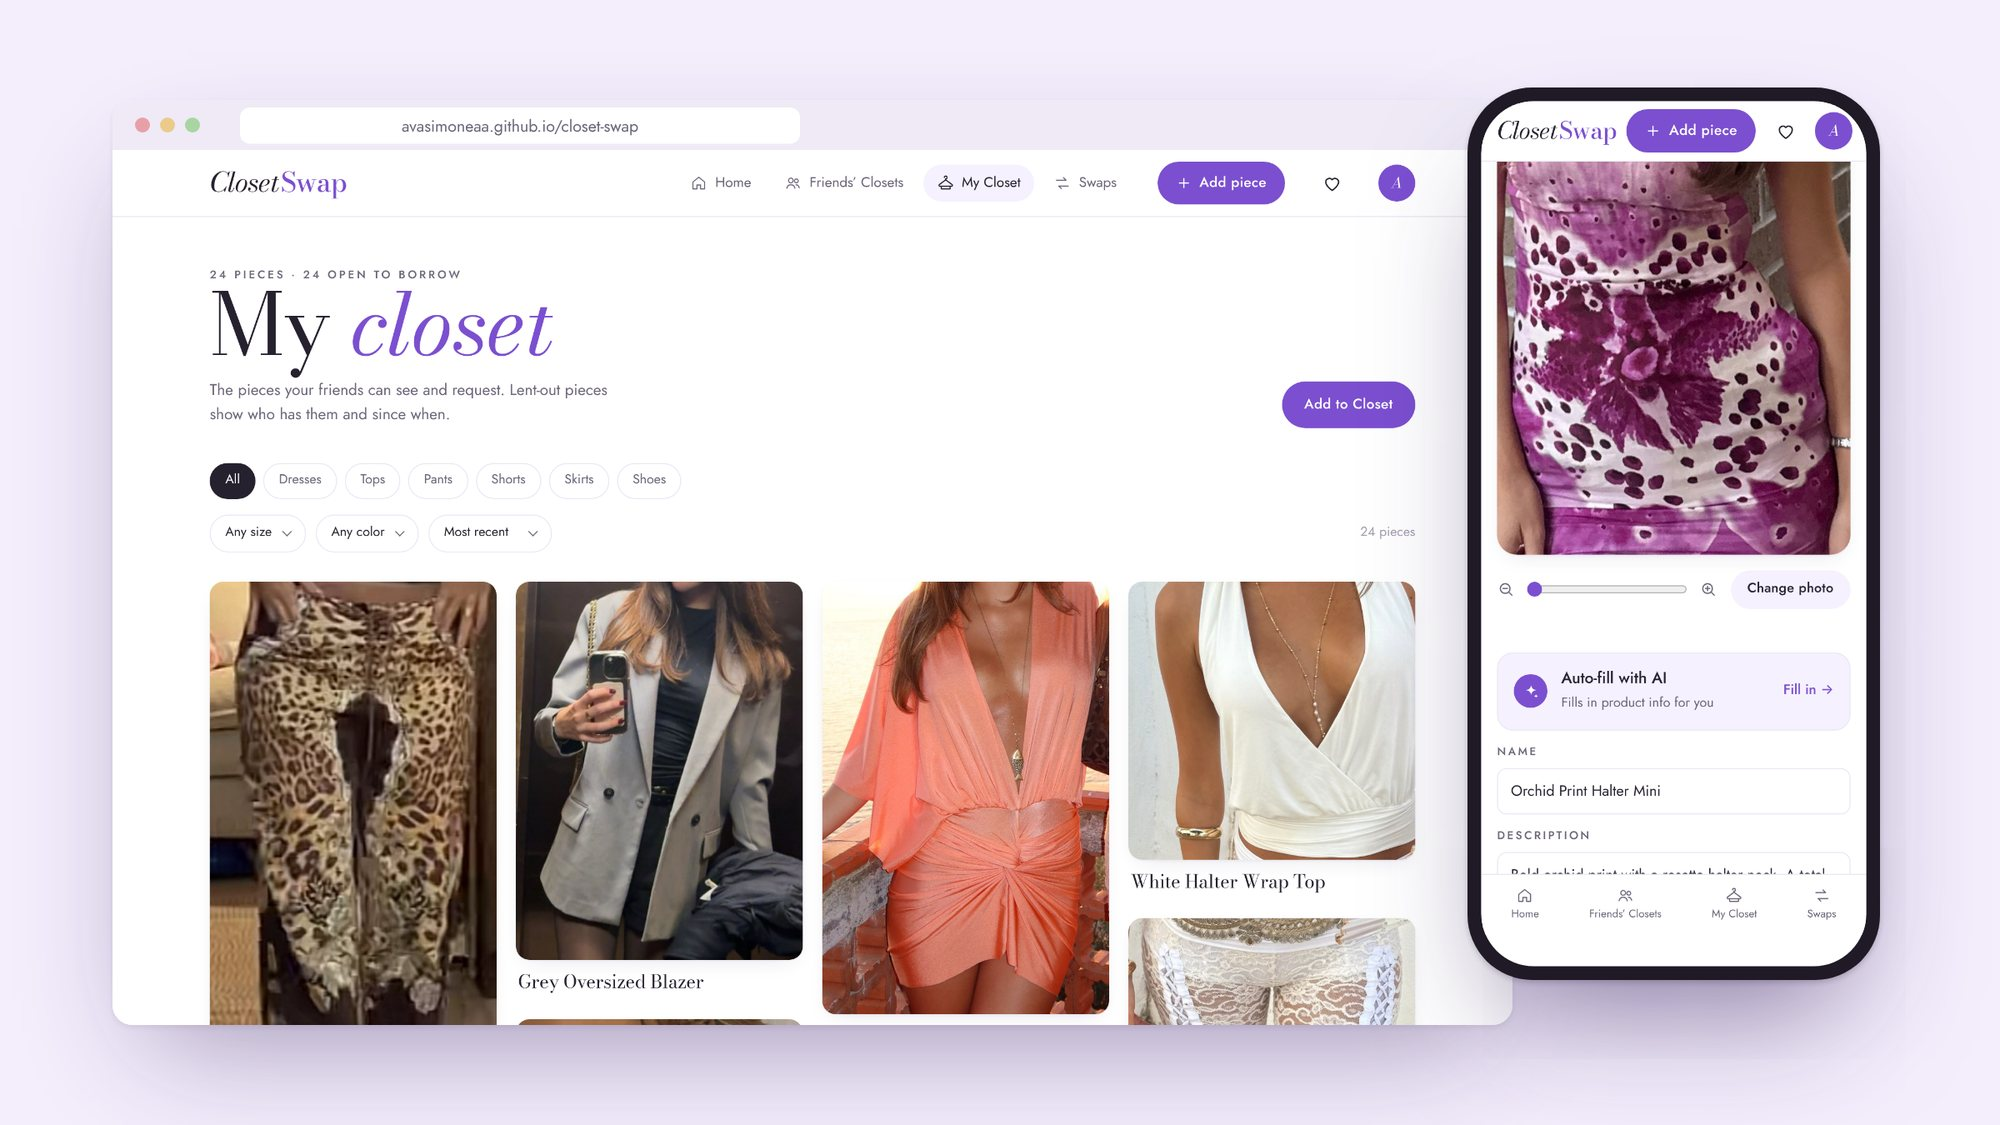
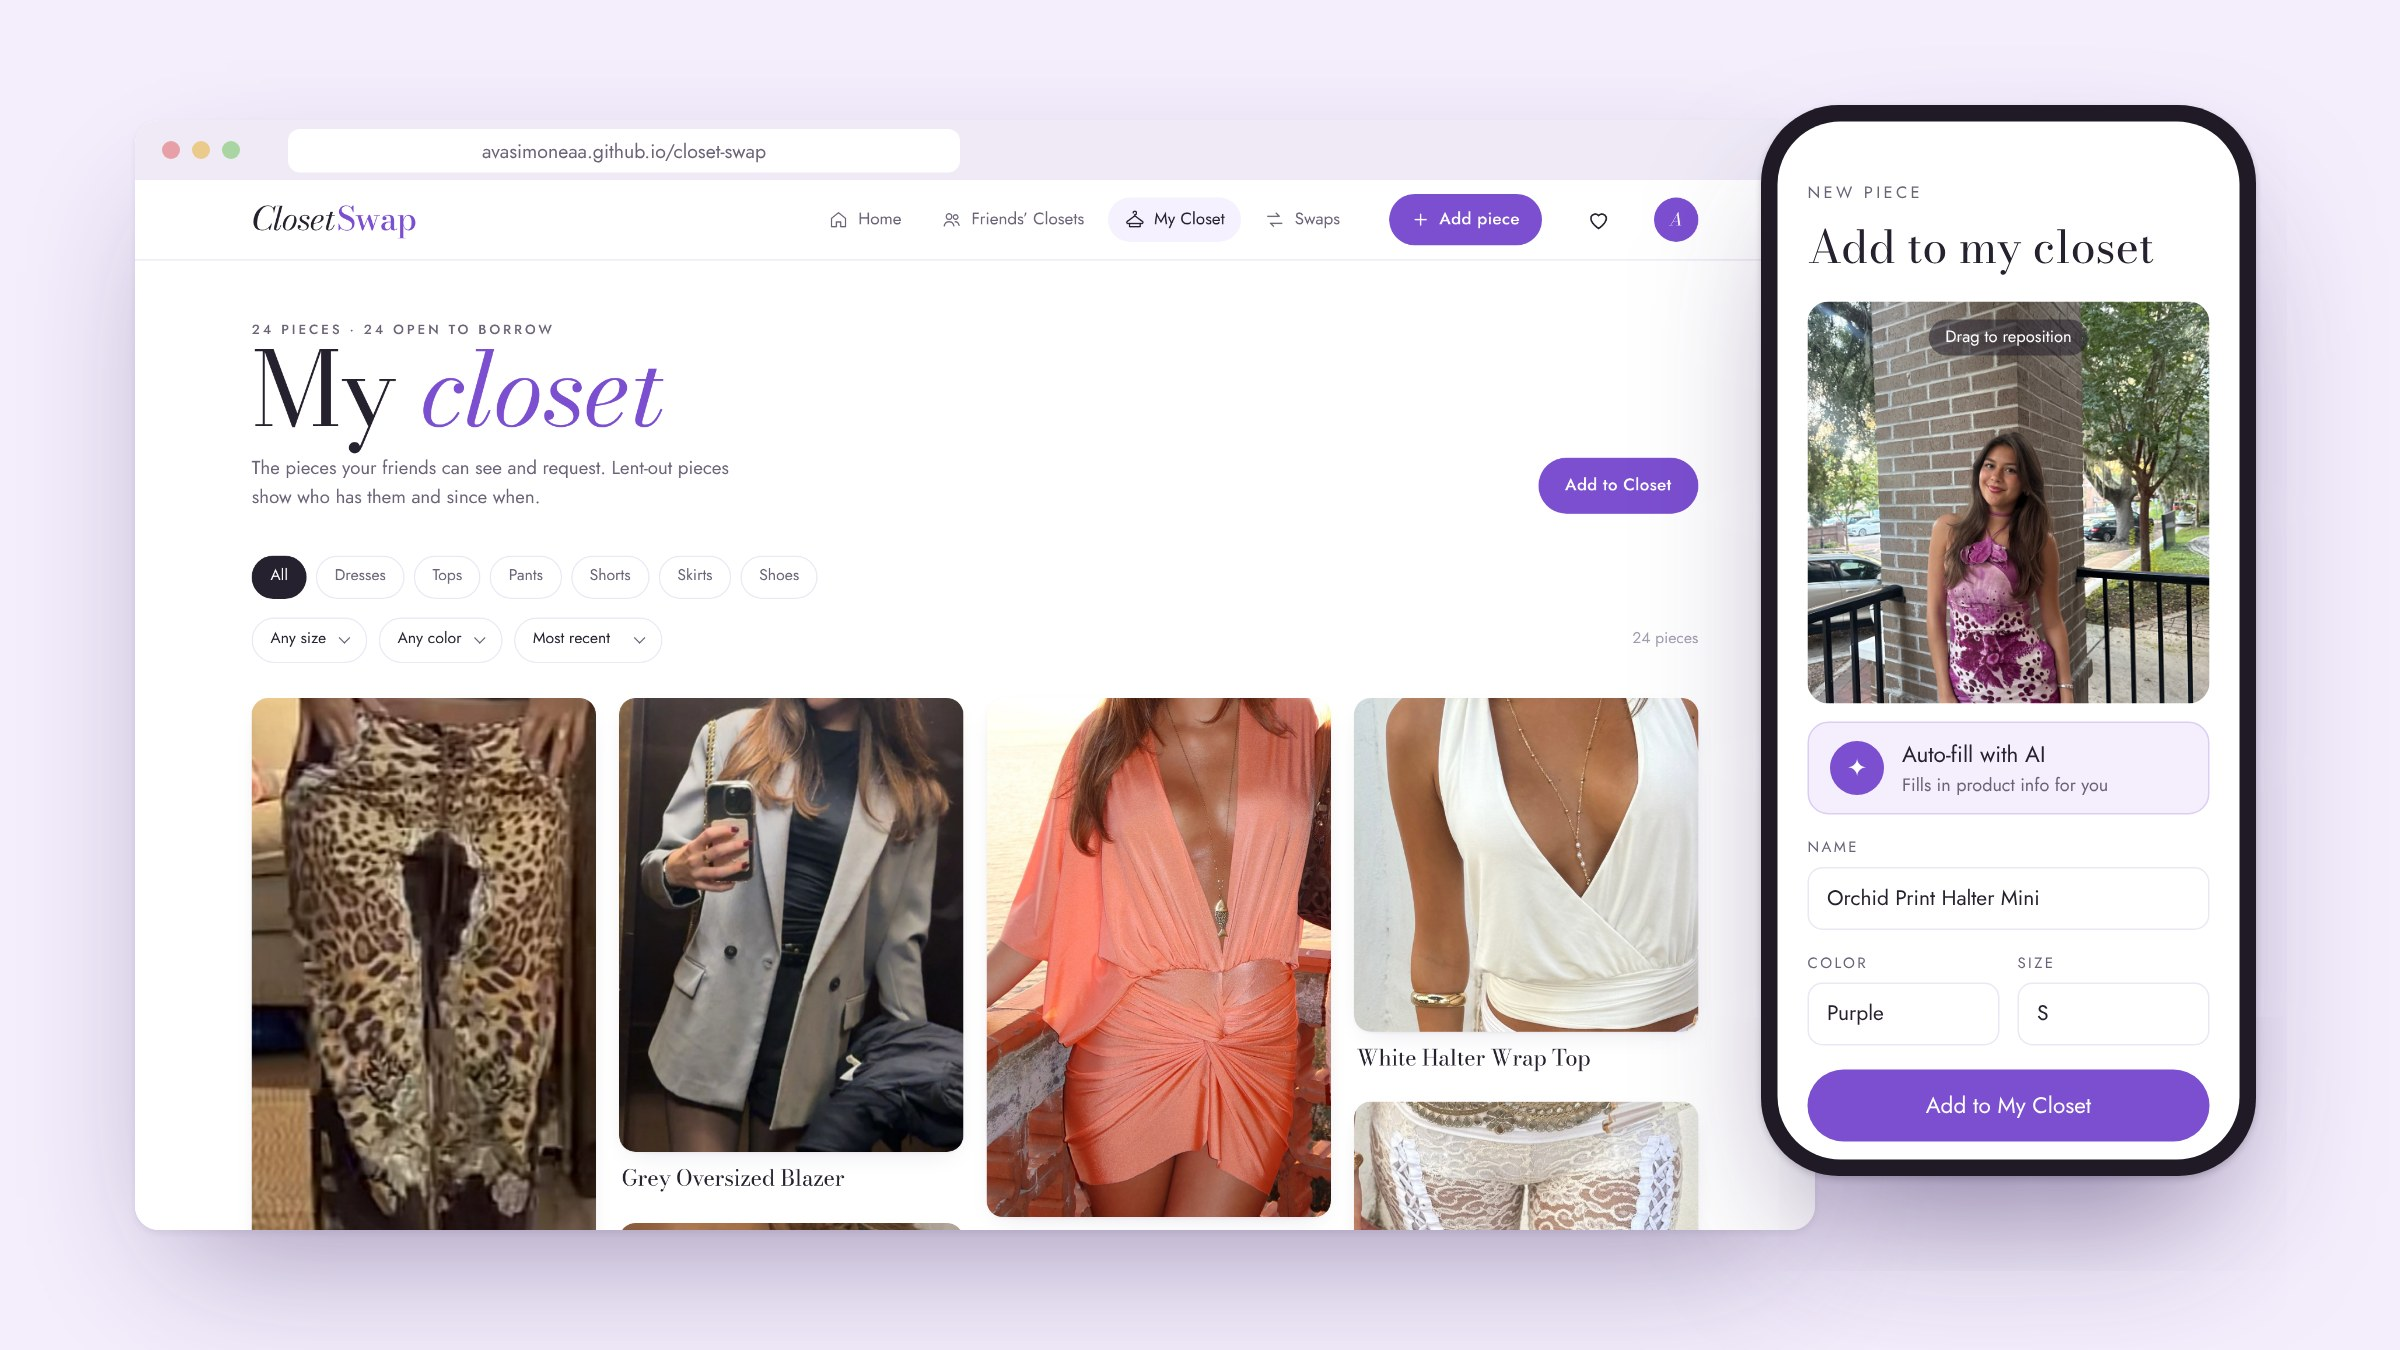
Update README hero with the new product shot
Claude-Session: https://claude.ai/code/session_01ApCmZ7wp5RWhRRuJjcbStU

Changed region(s): [[0.744, 0.0933, 0.93, 0.8711]]

diff --git a/README.md b/README.md
@@ -6,7 +6,7 @@ Closet Swap is a wardrobe-sharing app for friends. Browse each other's closets, 
 
 **[Open the live app →](https://avasimoneaa.github.io/closet-swap/)** · **[See the landing page →](https://shiny-behaviors-053847.framer.app)**
 
-![Closet Swap on desktop and phone: the My Closet grid and the Add a Piece screen with AI auto-fill](docs/screenshots/hero.jpg)
+![Closet Swap on desktop and phone: the My Closet grid and the Add a Piece screen with AI auto-fill](docs/screenshots/hero.jpg?v=2)
 
 ## Why I built it
 
